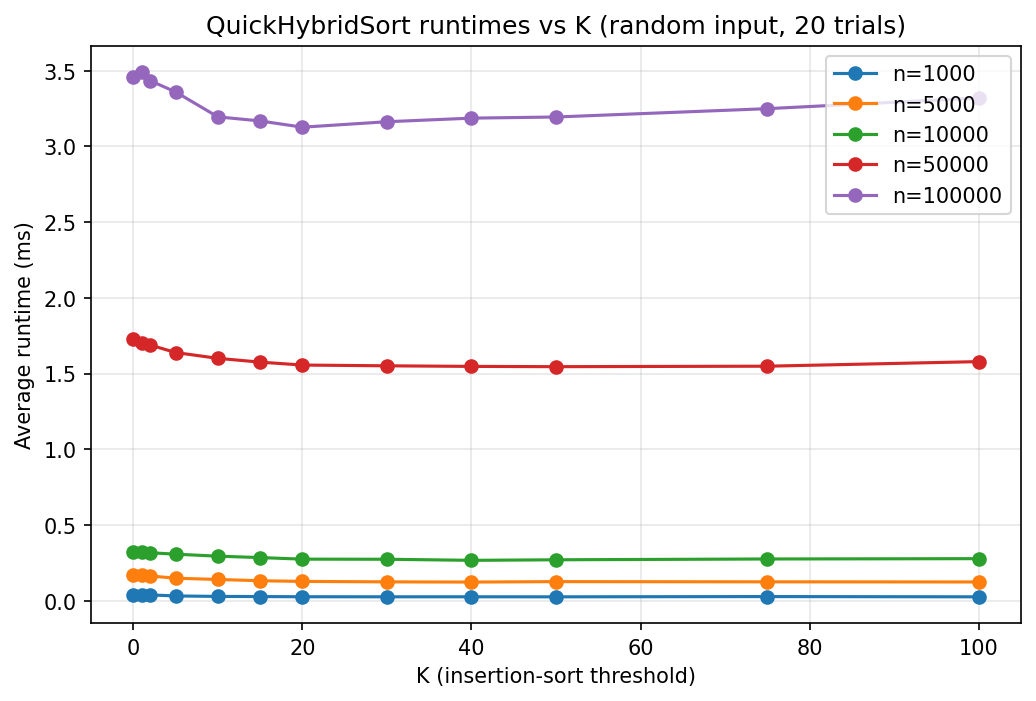
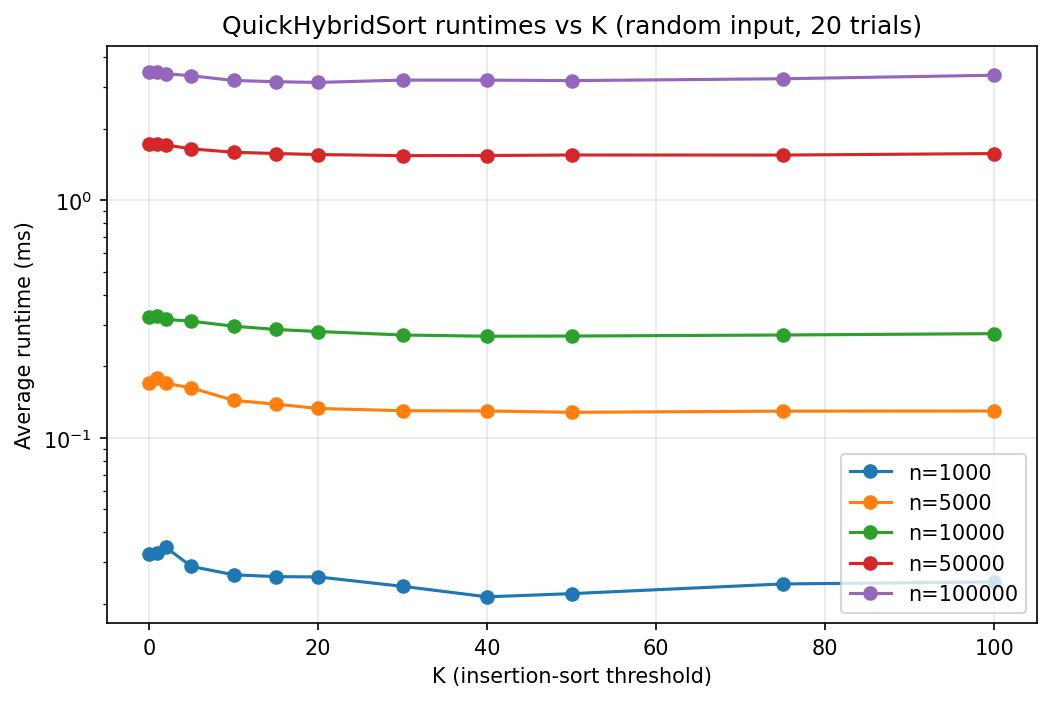
1.3 finished

diff --git a/Main.java b/Main.java
@@ -7,6 +7,7 @@ public class Main {
     runCorrectChecks();
     runEdgeCases();
     runRandomBenchmarks();
+    runComparisonBenchmarks();
   }
 
   public static int[] randomArray(int n, Random rng) {
@@ -96,5 +97,59 @@ public class Main {
     }
     writer.close();
     System.out.println("Wrote to benchmark_random.csv");
+  }
+
+  public static void runComparisonBenchmarks() throws IOException {
+    Random rng = new Random(456);
+
+    int[] nValues = {100, 500, 1000, 2000, 5000, 10000, 20000, 50000};
+    int trials = 20;
+    int optimalK = 20;
+
+    PrintWriter writer = new PrintWriter(new FileWriter("benchmark_compare.csv"));
+    writer.println("n,algorithm,avg_time_ms");
+
+    for (int n : nValues) {
+      long insertionNs = 0;
+      long quickNs = 0;
+      long hybridNs = 0;
+
+      for (int trial = 0; trial < trials; trial++) {
+        int[] arrInsertion = randomArray(n, rng);
+        int[] arrQuick = arrInsertion.clone();
+        int[] arrHybrid = arrInsertion.clone();
+        long start = System.nanoTime();
+        Sorting.insertionSort(arrInsertion, 0, n - 1);
+        insertionNs += System.nanoTime() - start;
+
+        start = System.nanoTime();
+        Sorting.quickHybridSort(arrQuick, 0);
+        quickNs += System.nanoTime() - start;
+
+        start = System.nanoTime();
+        Sorting.quickHybridSort(arrHybrid, optimalK);
+        hybridNs += System.nanoTime() - start;
+      }
+
+      double tInsertion = insertionNs / 1_000_000.0 / trials;
+      double tQuick = quickNs / 1_000_000.0 / trials;
+      double tHybrid = hybridNs / 1_000_000.0 / trials;
+
+      writer.println(n + ",InsertionSort," + tInsertion);
+      writer.println(n + ",Quicksort," + tQuick);
+      writer.println(n + ",Hybrid," + tHybrid);
+
+      System.out.println(
+          "n = "
+              + n
+              + ", insertion = "
+              + tInsertion
+              + ", quick = "
+              + tQuick
+              + ", hybrid = "
+              + tHybrid);
+    }
+    writer.close();
+    System.out.println("Wrote benchmark_compare.csv");
   }
 }

diff --git a/Plot1_3b.py b/Plot1_3b.py
@@ -1,0 +1,17 @@
+import matplotlib.pyplot as plt
+import pandas as pd
+
+df = pd.read_csv("benchmark_compare.csv")
+
+plt.figure(figsize=(8, 5))
+for algo, group in df.groupby("algorithm"):
+    plt.plot(group["n"], group["avg_time_ms"], marker="o", label=algo)
+
+plt.xlabel("n (array size)")
+plt.ylabel("Average runtime (ms)")
+plt.title("Algorithm comparison (random input, 20 trials)")
+plt.legend()
+plt.grid(True, alpha=0.3, which="both")
+plt.yscale("log")
+plt.savefig("deliverable1_3b.png", dpi=150, bbox_inches="tight")
+plt.show()

diff --git a/Plot1_3a.py b/Plot1_3a.py
@@ -1,0 +1,15 @@
+import matplotlib.pyplot as plt
+import pandas as pd
+
+df = pd.read_csv("benchmark_random.csv")
+
+best = df.loc[df.groupby("n")["avg_time_ms"].idxmin()]
+
+plt.figure(figsize=(7, 5))
+plt.plot(best["n"], best["k"], marker="o", linewidth=2)
+plt.xlabel("n (array size)")
+plt.ylabel("Optimal K")
+plt.title("Optimal K vs n (random input)")
+plt.grid(True, alpha=0.3)
+plt.savefig("deliverable1_3a.png", dpi=150, bbox_inches="tight")
+plt.show()

diff --git a/Plot1_2.py b/Plot1_2.py
@@ -12,4 +12,6 @@ plt.ylabel("Average runtime (ms)")
 plt.title("QuickHybridSort runtimes vs K (random input, 20 trials)")
 plt.legend()
 plt.grid(True, alpha=0.3)
+plt.yscale("log")
 plt.savefig("deliverable1_2.png", dpi=150, bbox_inches="tight")
+plt.show()